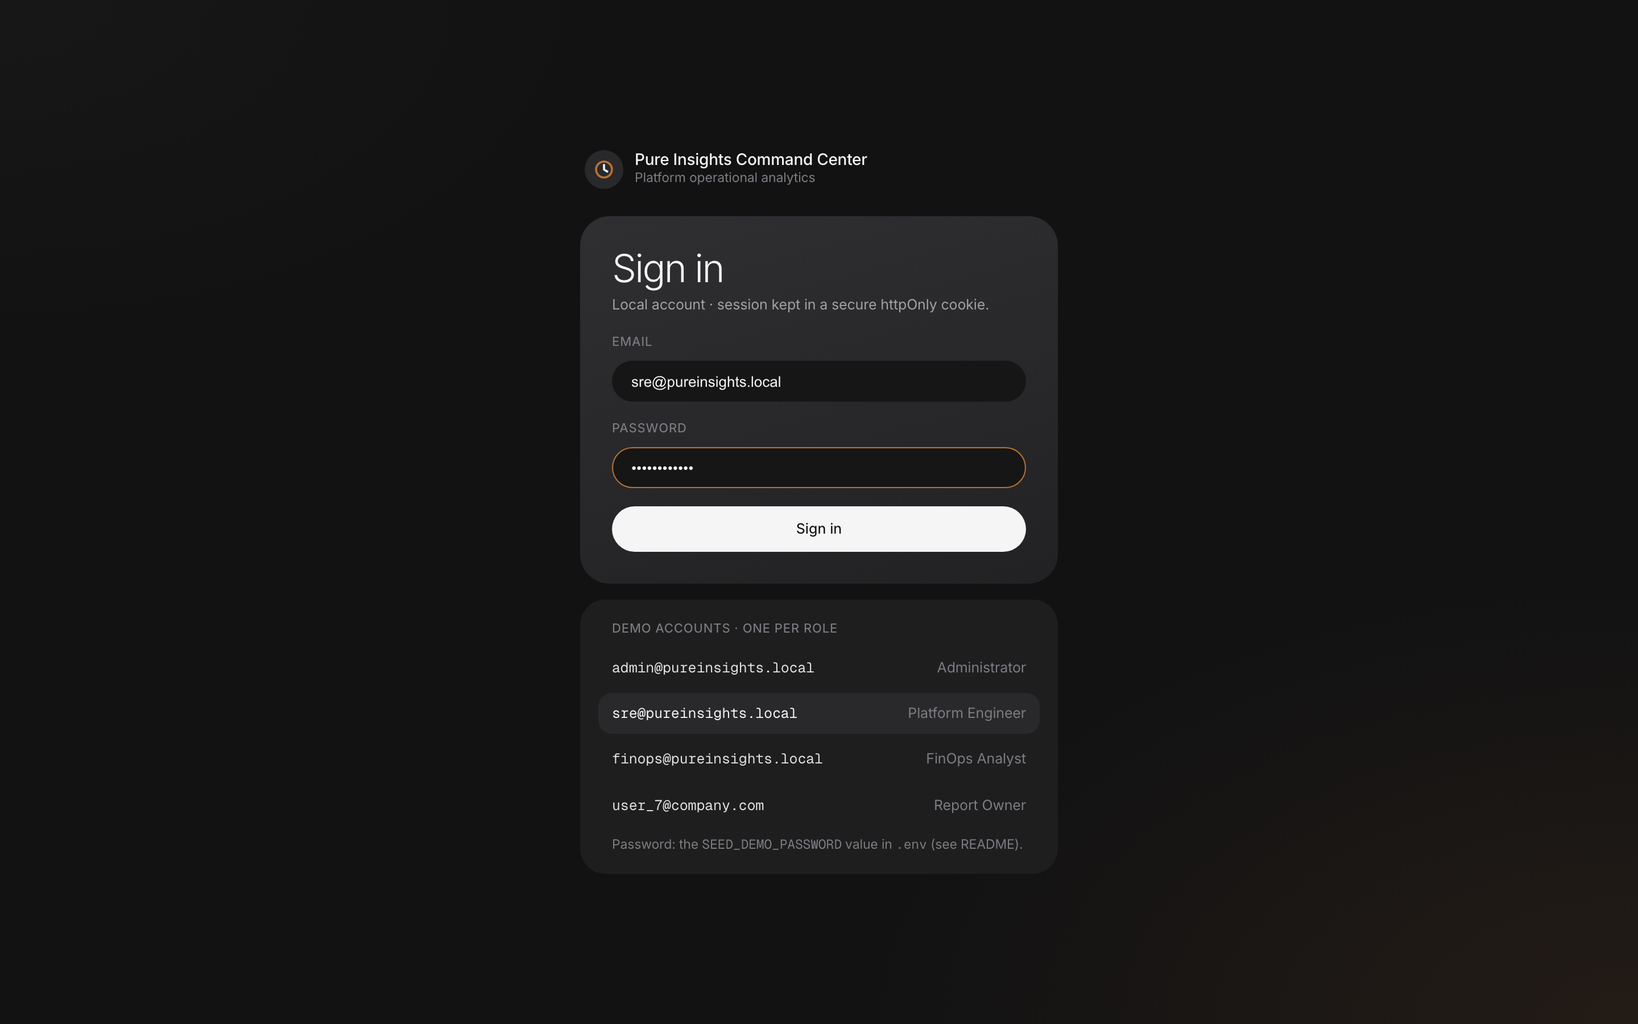
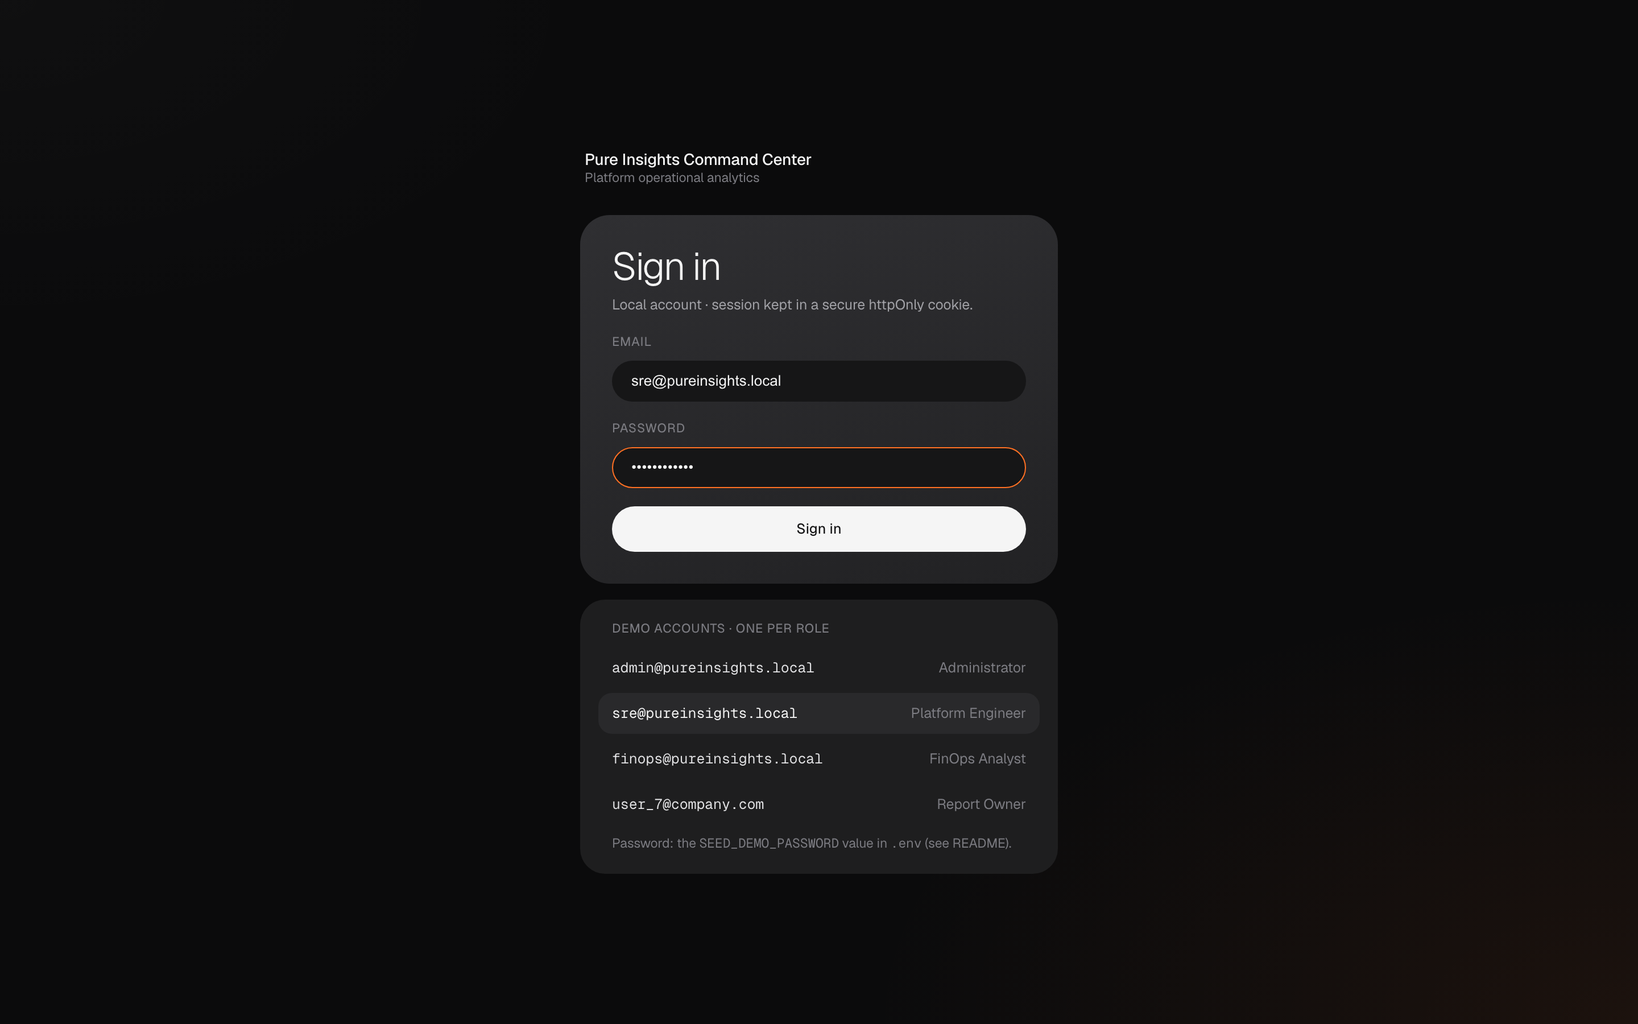
Adopt Everpure orange and Geist; red critical callouts; fix replay reset deadlock
- Accent is the Everpure brand orange #ff7023 (pills use near-black text);
  chart marks use the darker brand step #d55d1d
- Text-only brand, darker canvas, Geist typeface
- Critical KPI card and critical pop-up notifications use a red background
- Mute toggle shows a 'Mute notifications' label
- Replay reset now truncates through the ingest queue with a generation
  guard, so it cannot deadlock with or be undone by concurrent telemetry

diff --git a/client/src/theme/tokens.css b/client/src/theme/tokens.css
@@ -5,8 +5,9 @@
    navigation, very large light-weight titles and numbers, generously rounded
    cards in two tones (charcoal for tables/charts, lighter "glass" grey for
    KPIs), rounded pill filter groups, gradient bars with a solid cap, and a
-   glow callout. Colour elements come from the agent-auto-optimizer system
-   (copper accent, neutral text scale). Severity colours are validated for CVD
+   glow callout. The accent is the Everpure brand orange (#ff7023, from the
+   everpuredata.com design tokens --ps-color-brand-500); the neutral text scale
+   follows the agent-auto-optimizer system. Severity colours are validated for CVD
    separation, normal-vision separation and >= 3:1 contrast on the card
    surface, and always travel with an icon and a text label.
    ─────────────────────────────────────────────────────────────────────────── */
@@ -14,7 +15,7 @@
 :root {
   color-scheme: dark;
 
-  --canvas:     #121213;
+  --canvas:     #0b0b0c;
   --card:       #1e1e1f;   /* charcoal cards: tables, charts */
   --glass:      #333335;   /* KPI cards */
   --glass-2:    #2a2a2c;
@@ -29,10 +30,13 @@
   --dim:    #7c7c82;
   --faint:  #56565b;
 
-  --accent:      #b87333;
-  --accent-fill: #a5612a;   /* filled pills with white text */
-  --accent-text: #dd9a5e;
-  --accent-soft: rgba(184, 115, 51, 0.16);
+  /* Everpure brand orange ramp (--ps-color-brand-400/500/600) */
+  --accent:      #ff7023;
+  --accent-600:  #d55d1d;
+  --accent-fill: #ff7023;   /* filled pills — paired with near-black text (6.8:1) */
+  --on-accent:   #121213;
+  --accent-text: #ff8848;   /* orange text on dark surfaces (7:1) */
+  --accent-soft: rgba(255, 112, 35, 0.15);
 
   --series-2: #5b8fd1;
 
@@ -42,7 +46,7 @@
   --sev-critical: #c63d42;
   --sev-critical-text: #ea7a76;
 
-  --font-sans: "Inter Variable", Inter, -apple-system, BlinkMacSystemFont, "Segoe UI", sans-serif;
+  --font-sans: "Geist Variable", Geist, -apple-system, BlinkMacSystemFont, "Segoe UI", sans-serif;
   --font-mono: "Geist Mono", ui-monospace, SFMono-Regular, Menlo, monospace;
 
   --r-card: 22px;
@@ -56,10 +60,9 @@ body {
   margin: 0;
   color: var(--text-2);
   background:
-    radial-gradient(1100px 620px at 100% 100%, rgba(184, 115, 51, 0.10), transparent 62%),
-    radial-gradient(900px 500px at 0% 0%, rgba(255, 255, 255, 0.025), transparent 60%),
+    radial-gradient(1100px 620px at 100% 100%, rgba(255, 112, 35, 0.07), transparent 62%),
+    radial-gradient(900px 500px at 0% 0%, rgba(255, 255, 255, 0.018), transparent 60%),
     var(--canvas);
-  background-attachment: fixed;
   font-family: var(--font-sans);
   font-size: 13.5px;
   font-weight: 400;
@@ -95,9 +98,9 @@ h3 { font-size: 14px; font-weight: 450; }
   position: sticky; top: 0; z-index: 30;
   display: flex; align-items: center; gap: 22px;
   padding: 14px 40px;
-  background: rgba(18, 18, 19, 0.82); backdrop-filter: blur(14px);
+  background: rgba(11, 11, 12, 0.85); backdrop-filter: blur(14px);
 }
-.brand { display: flex; align-items: center; gap: 10px; flex: 0 0 auto; }
+.brand { display: flex; align-items: center; gap: 10px; flex: 0 0 auto; text-decoration: none; }
 .brand-mark { width: 34px; height: 34px; flex: 0 0 34px; border-radius: 50%; background: var(--chip); display: grid; place-items: center; }
 .brand-name { font-size: 14px; font-weight: 500; color: var(--text); line-height: 1.15; letter-spacing: -0.01em; }
 .brand-sub { font-size: 11.5px; color: var(--dim); }
@@ -109,8 +112,9 @@ h3 { font-size: 14px; font-weight: 450; }
   color: var(--text-2); font-size: 13.5px; transition: background .15s, color .15s;
 }
 .nav a:hover { background: var(--chip); }
-.nav a.active { background: var(--accent-fill); color: #fff; }
+.nav a.active { background: var(--accent-fill); color: var(--on-accent); font-weight: 500; }
 .nav a .count { font-family: var(--font-mono); font-size: 10.5px; padding: 1px 6px; border-radius: 999px; background: rgba(255,255,255,0.12); }
+.nav a.active .count { background: rgba(0,0,0,0.16); }
 .top-actions { display: flex; align-items: center; gap: 8px; flex: 0 0 auto; }
 .chip {
   display: inline-flex; align-items: center; gap: 8px; height: 36px; padding: 0 14px;
@@ -124,13 +128,19 @@ h3 { font-size: 14px; font-weight: 450; }
 }
 .icon-btn:hover { background: var(--chip-hover); }
 .icon-btn:focus-visible { outline: 2px solid var(--accent); }
+.mute-toggle { all: unset; box-sizing: border-box; cursor: pointer; position: relative; display: inline-flex; align-items: center; gap: 8px;
+  height: 36px; padding: 0 14px 0 12px; border-radius: var(--r-ctrl); background: var(--chip); color: var(--text-2); font-size: 12.5px; white-space: nowrap; transition: background .15s; }
+.mute-toggle:hover { background: var(--chip-hover); }
+.mute-toggle:focus-visible { outline: 2px solid var(--accent); }
+.mute-toggle[aria-pressed="true"] { color: var(--accent-text); background: var(--accent-soft); }
+.mute-toggle .badge-dot { position: absolute; top: 7px; left: 22px; width: 7px; height: 7px; border-radius: 50%; background: var(--accent); box-shadow: 0 0 0 2px var(--chip); }
 .icon-btn .badge-dot { position: absolute; top: 7px; right: 8px; width: 7px; height: 7px; border-radius: 50%; background: var(--accent); box-shadow: 0 0 0 2px var(--chip); }
 .icon-btn.dark { background: #0d0d0e; color: var(--text); }
 .icon-btn.sm { width: 30px; height: 30px; flex-basis: 30px; }
 .user-chip { all: unset; cursor: pointer; display: flex; align-items: center; gap: 10px; padding: 3px 14px 3px 3px; border-radius: var(--r-ctrl); background: var(--chip); }
 .user-chip:hover { background: var(--chip-hover); }
 .user-chip:focus-visible { outline: 2px solid var(--accent); }
-.avatar { width: 30px; height: 30px; border-radius: 50%; display: grid; place-items: center; background: linear-gradient(140deg, #c8834a, #7c4a22); color: #fff; font-size: 11.5px; font-weight: 600; }
+.avatar { width: 30px; height: 30px; border-radius: 50%; display: grid; place-items: center; background: linear-gradient(180deg, var(--accent) 0%, var(--accent-600) 100%); color: var(--on-accent); font-size: 11.5px; font-weight: 600; }
 .user-chip .who { line-height: 1.15; }
 .user-chip .who b { display: block; font-size: 12.5px; font-weight: 500; color: var(--text); }
 .user-chip .who span { font-size: 11px; color: var(--dim); }
@@ -144,7 +154,7 @@ h3 { font-size: 14px; font-weight: 450; }
 .content { padding: 26px 40px 64px; max-width: 1560px; margin: 0 auto; }
 .page-head { display: flex; align-items: flex-end; justify-content: space-between; gap: 24px; margin: 6px 0 24px; flex-wrap: wrap; }
 .page-head p { margin: 10px 0 0; color: var(--muted); max-width: 82ch; font-size: 13.5px; }
-.page-head .meta { display: inline-flex; align-items: center; height: 34px; padding: 0 14px; border-radius: var(--r-ctrl); background: #0d0d0e; color: var(--text-2); font-size: 12.5px; }
+.page-head .meta { display: inline-flex; align-items: center; height: 34px; padding: 0 14px; border-radius: var(--r-ctrl); background: var(--chip); color: var(--text-2); font-size: 12.5px; }
 
 /* ── Layout ────────────────────────────────────────────────────────────────*/
 .grid { display: grid; gap: var(--gap); }
@@ -182,6 +192,10 @@ h3 { font-size: 14px; font-weight: 450; }
 .kpi.wide { grid-column: span 2; }
 .kpi.wide .value { font-size: 64px; letter-spacing: -0.05em; }
 .kpi .kpi-link { position: absolute; top: 16px; right: 16px; }
+/* The most severe tier is called out with a red card (white text >= 5:1 on both gradient stops) */
+.kpi.critical { background: linear-gradient(165deg, #c63d42 0%, #a3262c 100%); }
+.kpi.critical .label, .kpi.critical .value { color: #fff; }
+.kpi.critical .foot, .kpi.critical .value small { color: rgba(255, 255, 255, 0.86); }
 /* Overview layout: hero spans two rows beside a 3×2 block of KPI cards */
 .kpis.hero-grid { grid-template-columns: repeat(5, minmax(0, 1fr)); }
 .kpis.hero-grid .kpi.wide { grid-column: span 2; grid-row: span 2; justify-content: space-between; }
@@ -211,7 +225,7 @@ h3 { font-size: 14px; font-weight: 450; }
 .btn.ghost { background: transparent; color: var(--muted); }
 .btn.ghost:hover { background: var(--chip); color: var(--text); }
 .btn.accent { background: var(--accent-soft); color: var(--accent-text); }
-.btn.accent:hover { background: rgba(184, 115, 51, 0.26); }
+.btn.accent:hover { background: rgba(255, 112, 35, 0.26); }
 .btn.sm { height: 28px; padding: 0 12px; font-size: 12px; }
 
 .input, .select, textarea.input {
@@ -254,16 +268,16 @@ tbody tr td:first-child { border-radius: 12px 0 0 12px; }
 tbody tr td:last-child { border-radius: 0 12px 12px 0; }
 tbody tr:hover td { background: rgba(255,255,255,.035); }
 tbody tr.clickable { cursor: pointer; }
-tr.flagged td { background: rgba(184, 115, 51, 0.08); }
-tr.flagged:hover td { background: rgba(184, 115, 51, 0.13); }
+tr.flagged td { background: rgba(255, 112, 35, 0.07); }
+tr.flagged:hover td { background: rgba(255, 112, 35, 0.12); }
 .sub-text { display: block; color: var(--dim); font-size: 11.5px; margin-top: 2px; }
 
 /* ── Notes & states ────────────────────────────────────────────────────────*/
 .note {
   border-radius: 18px; padding: 16px 22px; color: var(--muted); font-size: 13px; line-height: 1.6;
   background:
-    radial-gradient(420px 160px at 92% 50%, rgba(184, 115, 51, 0.34), transparent 70%),
-    radial-gradient(260px 120px at 70% 120%, rgba(184, 115, 51, 0.16), transparent 70%),
+    radial-gradient(420px 160px at 92% 50%, rgba(255, 112, 35, 0.30), transparent 70%),
+    radial-gradient(260px 120px at 70% 120%, rgba(213, 93, 29, 0.16), transparent 70%),
     var(--card);
 }
 .note strong { color: var(--text); font-weight: 500; }
@@ -272,7 +286,7 @@ tr.flagged:hover td { background: rgba(184, 115, 51, 0.13); }
 .stale { opacity: .5; transition: opacity .15s; }
 
 .meter { height: 6px; border-radius: 999px; background: var(--chip); overflow: hidden; }
-.meter > span { display: block; height: 100%; border-radius: 999px; background: linear-gradient(90deg, rgba(184,115,51,.45), var(--accent)); transition: width .4s; }
+.meter > span { display: block; height: 100%; border-radius: 999px; background: linear-gradient(90deg, var(--accent-600), var(--accent)); transition: width .4s; }
 .kv { display: grid; grid-template-columns: repeat(auto-fit, minmax(130px, 1fr)); gap: 18px 24px; }
 .kv .v { font-size: 22px; font-weight: 300; letter-spacing: -0.03em; margin-top: 6px; color: var(--text); }
 
@@ -285,7 +299,14 @@ tr.flagged:hover td { background: rgba(184, 115, 51, 0.13); }
 .toast .t-title { font-size: 13px; font-weight: 500; color: var(--text); }
 .toast .t-msg { grid-column: 2 / 4; font-size: 12px; color: var(--muted); }
 .toast .t-close { all: unset; cursor: pointer; color: var(--dim); font-size: 16px; line-height: 1; }
-.toast.more { all: unset; cursor: pointer; text-align: center; font-size: 12px; color: var(--text-2); padding: 9px 14px; background: #0d0d0e; border-radius: 999px; }
+.toast .t-icon { display: grid; place-items: center; width: 18px; height: 18px; margin-top: 1px; }
+/* Critical notifications use the same red treatment as the Critical card (white text >= 5:1) */
+.toast.toast-CRITICAL { background: linear-gradient(165deg, #c63d42 0%, #a3262c 100%); box-shadow: 0 18px 44px rgba(163, 38, 44, .35); }
+.toast.toast-CRITICAL .t-title { color: #fff; }
+.toast.toast-CRITICAL .t-msg { color: rgba(255, 255, 255, 0.88); }
+.toast.toast-CRITICAL .t-close { color: rgba(255, 255, 255, 0.85); }
+.toast.toast-CRITICAL .t-icon { background: #fff; border-radius: 50%; }
+.toast.more { all: unset; cursor: pointer; text-align: center; font-size: 12px; color: var(--text-2); padding: 9px 14px; background: var(--chip); border-radius: 999px; }
 .toast.more:hover { color: var(--text); }
 @keyframes toast-in { from { transform: translateY(6px); opacity: 0; } to { transform: none; opacity: 1; } }
 @media (prefers-reduced-motion: reduce) { .toast { animation: none; } }

diff --git a/server/src/services/telemetryReplayer.js b/server/src/services/telemetryReplayer.js
@@ -9,9 +9,11 @@ function median(values) {
   return v.length % 2 ? v[mid] : (v[mid - 1] + v[mid]) / 2;
 }
 
-export function createTelemetryReplayer({ pool, ingest, hub, config, logger }) {
+export function createTelemetryReplayer({ pool, ingest, exclusive = (fn) => fn(), hub, config, logger }) {
   let observations = null;
   let timer = null;
+  // Bumped by reset(): a batch already in flight when the replay is reset must not move the cursor.
+  let generation = 0;
   const state = {
     running: false,
     position: 0,
@@ -55,6 +57,7 @@ export function createTelemetryReplayer({ pool, ingest, hub, config, logger }) {
   async function tick() {
     timer = null;
     if (!state.running) return;
+    const gen = generation;
     const rows = await load();
     const batchSize = Math.ceil(perSnapshot() / BATCHES_PER_SNAPSHOT);
     const batch = rows.slice(state.position, state.position + batchSize);
@@ -73,6 +76,7 @@ export function createTelemetryReplayer({ pool, ingest, hub, config, logger }) {
       publishStatus();
       return;
     }
+    if (gen !== generation) return; // replay was reset while this batch was in flight
     state.position += batch.length;
     state.eventsSent += batch.length;
 
@@ -132,9 +136,11 @@ export function createTelemetryReplayer({ pool, ingest, hub, config, logger }) {
     },
     async reset({ clearAlerts = true } = {}) {
       this.stop();
-      Object.assign(state, { position: 0, cycles: 0, eventsSent: 0, startedAt: null, lastSnapshotCompleted: null });
+      generation += 1;
+      Object.assign(state, { position: 0, cycles: 0, eventsSent: 0, startedAt: null, lastSnapshotCompleted: null, pauseAfterSnapshot: null });
       if (clearAlerts) {
-        await pool.query('TRUNCATE app.alert_events, app.alerts, app.telemetry_events RESTART IDENTITY');
+        // Serialized with telemetry ingestion, so TRUNCATE never races an ingest transaction (deadlock).
+        await exclusive(() => pool.query('TRUNCATE app.alert_events, app.alerts, app.telemetry_events RESTART IDENTITY'));
         hub?.broadcast('alerts.cleared', { reason: 'replay reset' }, { permission: 'alerts:read' });
       }
       publishStatus();

diff --git a/client/src/components/Layout.jsx b/client/src/components/Layout.jsx
@@ -14,17 +14,6 @@ const ROLE_LABEL = {
   REPORT_OWNER: 'Report Owner',
 };
 
-export function BrandMark() {
-  return (
-    <span className="brand-mark" aria-hidden="true">
-      <svg width="18" height="18" viewBox="0 0 16 16">
-        <circle cx="8" cy="8" r="6.2" fill="none" stroke="#b87333" strokeWidth="1.6" />
-        <path d="M8 4.4V8l2.6 1.6" fill="none" stroke="#f5f5f5" strokeWidth="1.6" strokeLinecap="round" />
-      </svg>
-    </span>
-  );
-}
-
 const initials = (name) =>
   name
     .replace(/\(.*\)/, '')
@@ -83,7 +72,6 @@ export function Layout() {
     <div className="app">
       <header className="topnav">
         <div className="brand">
-          <BrandMark />
           <div>
             <div className="brand-name">Pure Insights</div>
             <div className="brand-sub">Command Center</div>
@@ -101,14 +89,14 @@ export function Layout() {
           {user.ownerScoped && <span className="chip accent">Scoped to {user.ownerEmail}</span>}
           <button
             type="button"
-            className="icon-btn"
+            className="mute-toggle"
             onClick={() => setMuted(!muted)}
             aria-pressed={muted}
-            aria-label={muted ? 'Notifications muted — unmute' : 'Mute notifications'}
-            title={muted ? 'Notifications muted — click to unmute' : 'Notifications on — click to mute'}
+            title={muted ? 'Notifications are muted — click to unmute' : 'Notifications are on — click to mute'}
           >
             {muted ? <BellOffIcon /> : <BellIcon />}
             {!muted && counts.total > 0 && <span className="badge-dot" />}
+            {muted ? 'Unmute notifications' : 'Mute notifications'}
           </button>
           <UserMenu
             user={user}

diff --git a/server/test/api.test.js b/server/test/api.test.js
@@ -210,6 +210,20 @@ describe('real-time alerting over WebSocket', () => {
 });
 
 describe('replay drives the same pipeline', () => {
+  test('reset is serialized with ingestion (no deadlock, no half-applied batch)', async () => {
+    const events = Array.from({ length: 50 }, (_, i) => ({ type: 'report.telemetry', reportId: `RPT_${200 + i}`, avgLoadTimeSec: 40 }));
+    for (let round = 0; round < 3; round++) {
+      const [ingested, reset] = await Promise.all([
+        postTelemetry(ctx, events),
+        as.admin('POST', '/api/telemetry/replay/reset', { clearAlerts: true }),
+      ]);
+      assert.equal(ingested.status, 202);
+      assert.equal(reset.status, 200);
+      const { rows } = await ctx.pool.query('SELECT count(*)::int AS n FROM app.alerts');
+      assert.ok([0, 50].includes(rows[0].n), `alerts must be all-or-nothing, got ${rows[0].n}`);
+    }
+  });
+
   test('a replay batch produces alerts from the CSV observations', async () => {
     await clearAlerts(ctx.pool);
     await as.admin('POST', '/api/telemetry/replay/reset', { clearAlerts: true });

diff --git a/client/src/pages/Costs.jsx b/client/src/pages/Costs.jsx
@@ -86,12 +86,12 @@ function UnitCostRanking({ reports }) {
                   { name: 'lifetime views', value: fmtInt(p[0].payload.total_views) },
                 ]} />}
               />
-              <GradientDefs colors={[C.accent, '#8a5a2e']} horizontal />
+              <GradientDefs colors={[C.accent, C.accentMuted]} horizontal />
               <Bar
                 dataKey="fully_loaded_cost_per_view_usd"
                 barSize={14}
                 isAnimationActive={false}
-                shape={(p) => <CapBar {...p} horizontal color={p.payload.is_decommission_candidate ? C.accent : '#8a5a2e'} />}
+                shape={(p) => <CapBar {...p} horizontal color={p.payload.is_decommission_candidate ? C.accent : C.accentMuted} />}
                 label={{ position: 'right', fill: C.text2, fontSize: 11, formatter: (v) => fmtUsd(v) }}
               />
             </BarChart>

diff --git a/client/src/pages/Alerts.jsx b/client/src/pages/Alerts.jsx
@@ -118,7 +118,7 @@ export function Alerts() {
       </PageHead>
       <div className="grid grid-12" style={{ alignItems: 'start' }}>
         <div className={`kpis ${can('health:read') ? 'span-8' : 'span-12'}`}>
-          <Kpi label="Critical" value={counts.CRITICAL} foot="Load > 45 s or refresh FAILED" />
+          <Kpi label="Critical" tone="critical" value={counts.CRITICAL} foot="Load > 45 s or refresh FAILED" />
           <Kpi label="High" value={counts.HIGH} foot="Load 30–45 s or refresh TIMED_OUT" />
           <Kpi label="Warning" value={counts.WARNING} foot="Load 15–30 s or status UNKNOWN" />
           <Kpi label="Resolved" value={resolvedCount} foot={`${folded} repeat breaches folded into existing incidents`} />

diff --git a/client/src/pages/Login.jsx b/client/src/pages/Login.jsx
@@ -2,7 +2,6 @@ import { useState } from 'react';
 import { Navigate, useLocation, useNavigate } from 'react-router-dom';
 import { useAuth } from '../auth/AuthContext.jsx';
 import { homePathFor } from '../auth/navigation.js';
-import { BrandMark } from '../components/Layout.jsx';
 
 const DEMO = [
   { email: 'admin@pureinsights.local', role: 'Administrator' },
@@ -40,7 +39,6 @@ export function Login() {
     <div className="login-page">
       <div className="login-card">
         <div className="brand" style={{ padding: '0 4px 10px' }}>
-          <BrandMark />
           <div>
             <div className="brand-name">Pure Insights Command Center</div>
             <div className="brand-sub">Platform operational analytics</div>

diff --git a/server/src/server.js b/server/src/server.js
@@ -13,8 +13,8 @@ export function createServer(config) {
   const pool = createPool(config.db);
   const server = http.createServer();
   const hub = createWsHub({ server, pool, config, logger });
-  const { ingest } = createTelemetryIngest({ pool, hub, thresholds: config.thresholds, logger });
-  const replayer = createTelemetryReplayer({ pool, ingest, hub, config, logger });
+  const { ingest, exclusive } = createTelemetryIngest({ pool, hub, thresholds: config.thresholds, logger });
+  const replayer = createTelemetryReplayer({ pool, ingest, exclusive, hub, config, logger });
   const metrics = createApiMetrics();
   const app = createApp({ pool, config, hub, ingest, replayer, metrics, logger });
   server.on('request', app);

diff --git a/client/src/components/ui.jsx b/client/src/components/ui.jsx
@@ -20,9 +20,9 @@ export function Panel({ title, sub, actions, children, flush = false, className 
   );
 }
 
-export function Kpi({ label, value, unit, foot, flag = false, wide = false, to, toLabel, children }) {
+export function Kpi({ label, value, unit, foot, flag = false, wide = false, tone, to, toLabel, children }) {
   return (
-    <div className={`kpi ${flag ? 'flag' : ''} ${wide ? 'wide' : ''}`}>
+    <div className={`kpi ${flag ? 'flag' : ''} ${wide ? 'wide' : ''} ${tone ?? ''}`}>
       <span className="label">{label}</span>
       {to && (
         <Link to={to} className="icon-btn dark sm kpi-link" aria-label={toLabel ?? `Open ${label}`} title={toLabel ?? `Open ${label}`}>

diff --git a/client/src/components/Toasts.jsx b/client/src/components/Toasts.jsx
@@ -10,7 +10,7 @@ export function Toasts() {
     <div className="toasts" role="status" aria-live="polite">
       {toasts.map((t) => (
         <div key={t.id} className={`toast toast-${t.severity}`}>
-          <SeverityIcon severity={t.severity} size={14} />
+          <span className="t-icon"><SeverityIcon severity={t.severity} size={14} /></span>
           <div className="t-title">
             {t.kind === 'alert.escalated' ? 'Escalated · ' : ''}
             {t.title}

diff --git a/client/src/theme/chart.js b/client/src/theme/chart.js
@@ -9,7 +9,10 @@ export const C = {
   hairline: '#2c2c2e',
   hairlineLit: '#3a3a3d',
   panel: '#1e1e1f', // card surface (marker rings, gaps)
-  accent: '#b87333',
+  // Everpure brand orange, darker step (--ps-color-brand-600): passes the full CVD/contrast
+  // validation against series-2 on the card surface; the lighter #ff7023 is the UI accent.
+  accent: '#d55d1d',
+  accentMuted: '#aa4b17', // --ps-color-brand-700
   series2: '#5b8fd1',
   neutral: '#4a4f57',
 };

diff --git a/server/src/services/telemetryIngest.js b/server/src/services/telemetryIngest.js
@@ -71,5 +71,12 @@ export function createTelemetryIngest({ pool, hub, thresholds, logger }) {
     return run;
   }
 
-  return { ingest };
+  /** Run fn with no ingest in flight (same serial queue) — used for maintenance such as replay reset. */
+  function exclusive(fn) {
+    const run = queue.then(fn);
+    queue = run.catch((err) => logger.error({ err }, 'exclusive telemetry task failed'));
+    return run;
+  }
+
+  return { ingest, exclusive };
 }
